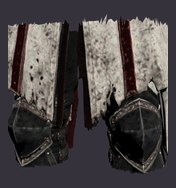
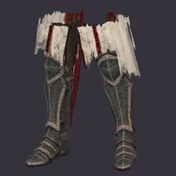
Armour sets as four items each: helm, torso, gloves and legs
The eight meshes each set was cut into are now worn in four groups, so the
rough cuts between meshes that always go together stay hidden: the torso
item puts on the jacket with its shoulders, cloak and belt, and the legs
item the pants with their boots. Torso and legs keep the jacket and pants
ids and take the stats of the pieces they absorb; the four retired pieces
are dropped from inventories and equipment on load. New icons are
rendered from each item's meshes.

Claude-Session: https://claude.ai/code/session_01PFEyGx6zJQyBTvDqTdZK58

diff --git a/app/src/data/armourSets.ts b/app/src/data/armourSets.ts
@@ -1,103 +1,99 @@
 import { GearKind, GearOption } from './types';
 import { ItemIconId } from './itemIcons';
 
-// The owner's four Meshy outfits, cut into eight wearable pieces each. Every
-// piece is its own item for its slot; on a hero it is drawn as a skinned mesh
-// fitted to their race body (see battle3d/Wardrobe). The guild starts with one
-// of each.
+// The owner's four Meshy outfits. Each was cut offline into eight meshes
+// (hood, shoulders, cloak, jacket, belt, gloves, pants, boots); they are worn
+// as four items, so the rough cuts between meshes that always go together stay
+// hidden: the helm or hood, the torso (jacket with shoulders, cloak and belt),
+// the gloves, and the legs (pants with boots). The torso and legs items keep
+// the jacket and pants ids so saves still find them. On a hero an item's meshes
+// are drawn skinned to their race body (see battle3d/Wardrobe). The guild starts
+// with one of each.
 
 export type ArmourSetId = 'leather' | 'knight' | 'arcane' | 'templar';
+/** One of the eight meshes a set was cut into. */
 export type ArmourPiece = 'hood' | 'shoulders' | 'cloak' | 'jacket' | 'belt' | 'gloves' | 'pants' | 'boots';
+/** A wearable item of a set: the helm, torso, gloves or legs. */
+export type ArmourItem = 'hood' | 'jacket' | 'gloves' | 'pants';
 
-export const ARMOUR_PIECES: ArmourPiece[] = ['hood', 'shoulders', 'cloak', 'jacket', 'belt', 'gloves', 'pants', 'boots'];
+export const ARMOUR_ITEMS: ArmourItem[] = ['hood', 'jacket', 'gloves', 'pants'];
 
-/** The slot kind each piece goes in. */
-export const PIECE_KIND: Record<ArmourPiece, GearKind> = {
-  hood: 'helm', shoulders: 'shoulders', cloak: 'cloak', jacket: 'chest', belt: 'belt', gloves: 'gloves', pants: 'pants', boots: 'boots',
+/** The meshes each item puts on. */
+export const ITEM_PIECES: Record<ArmourItem, ArmourPiece[]> = {
+  hood: ['hood'], jacket: ['jacket', 'shoulders', 'cloak', 'belt'], gloves: ['gloves'], pants: ['pants', 'boots'],
 };
+
+/** The slot kind each item goes in. */
+export const ITEM_KIND: Record<ArmourItem, GearKind> = { hood: 'helm', jacket: 'chest', gloves: 'gloves', pants: 'pants' };
 
 type PieceStats = Pick<GearOption, 'mult' | 'hpMult' | 'wardMult' | 'cdMult'>;
 interface ArmourSetDef {
   id: ArmourSetId;
   /** A closed helm hides the whole head; a hood leaves the face showing. */
   closedHelm: boolean;
-  names: Record<ArmourPiece, string>;
-  /** What the set is good at, spread over its pieces. */
-  stats: Record<ArmourPiece, PieceStats>;
+  names: Record<ArmourItem, string>;
+  /** What the set is good at, spread over its items. */
+  stats: Record<ArmourItem, PieceStats>;
 }
 
 const hp = (h: number): PieceStats => ({ hpMult: h });
 export const ARMOUR_SETS: ArmourSetDef[] = [
   {
     id: 'leather', closedHelm: false,
-    names: { hood: 'Кожаный капюшон', shoulders: 'Кожаные наплечники', cloak: 'Рваный плащ следопыта', jacket: 'Кожаная куртка', belt: 'Кожаный пояс', gloves: 'Кожаные перчатки', pants: 'Кожаные штаны', boots: 'Кожаные сапоги' },
+    names: { hood: 'Кожаный капюшон', jacket: 'Кожаная куртка с плащом', gloves: 'Кожаные перчатки', pants: 'Кожаные штаны и сапоги' },
     // Light and quick: damage and a shorter cooldown.
-    stats: { hood: { mult: 1.03 }, shoulders: { mult: 1.02 }, cloak: { cdMult: 0.96 }, jacket: { mult: 1.04, hpMult: 1.03 }, belt: { mult: 1.02 }, gloves: { mult: 1.04 }, pants: { mult: 1.02 }, boots: { cdMult: 0.97 } },
+    stats: { hood: { mult: 1.03 }, jacket: { mult: 1.08, hpMult: 1.03, cdMult: 0.96 }, gloves: { mult: 1.04 }, pants: { mult: 1.02, cdMult: 0.97 } },
   },
   {
     id: 'knight', closedHelm: true,
-    names: { hood: 'Рыцарский шлем', shoulders: 'Рыцарские наплечники', cloak: 'Рыцарский плащ', jacket: 'Рыцарская кираса', belt: 'Рыцарский пояс', gloves: 'Рыцарские латные перчатки', pants: 'Рыцарские поножи', boots: 'Рыцарские сабатоны' },
+    names: { hood: 'Рыцарский шлем', jacket: 'Рыцарские латы', gloves: 'Рыцарские латные перчатки', pants: 'Рыцарские поножи и сабатоны' },
     // Heavy plate: health and less damage taken.
-    stats: { hood: hp(1.05), shoulders: hp(1.04), cloak: { wardMult: 0.98 }, jacket: { hpMult: 1.08, wardMult: 0.97 }, belt: hp(1.02), gloves: hp(1.03), pants: hp(1.05), boots: { hpMult: 1.03, wardMult: 0.99 } },
+    stats: { hood: hp(1.05), jacket: { hpMult: 1.15, wardMult: 0.95 }, gloves: hp(1.03), pants: { hpMult: 1.08, wardMult: 0.99 } },
   },
   {
     id: 'arcane', closedHelm: false,
-    names: { hood: 'Капюшон чародея', shoulders: 'Наплечники чародея', cloak: 'Плащ чародея', jacket: 'Одеяние чародея', belt: 'Кушак чародея', gloves: 'Перчатки чародея', pants: 'Штаны чародея', boots: 'Сапоги чародея' },
+    names: { hood: 'Капюшон чародея', jacket: 'Одеяние чародея', gloves: 'Перчатки чародея', pants: 'Штаны и сапоги чародея' },
     // For casters: power and cooldowns.
-    stats: { hood: { mult: 1.03, cdMult: 0.98 }, shoulders: { mult: 1.02 }, cloak: { cdMult: 0.95 }, jacket: { mult: 1.05 }, belt: { cdMult: 0.98 }, gloves: { mult: 1.03 }, pants: { hpMult: 1.03 }, boots: { cdMult: 0.98 } },
+    stats: { hood: { mult: 1.03, cdMult: 0.98 }, jacket: { mult: 1.07, cdMult: 0.93 }, gloves: { mult: 1.03 }, pants: { hpMult: 1.03, cdMult: 0.98 } },
   },
   {
     id: 'templar', closedHelm: true,
-    names: { hood: 'Шлем тамплиера', shoulders: 'Наплечники тамплиера', cloak: 'Плащ тамплиера', jacket: 'Сюрко тамплиера', belt: 'Пояс тамплиера', gloves: 'Латные перчатки тамплиера', pants: 'Поножи тамплиера', boots: 'Сабатоны тамплиера' },
+    names: { hood: 'Шлем тамплиера', jacket: 'Доспех тамплиера', gloves: 'Латные перчатки тамплиера', pants: 'Поножи и сабатоны тамплиера' },
     // Holy warrior: some of both.
-    stats: { hood: { hpMult: 1.04, mult: 1.01 }, shoulders: hp(1.03), cloak: { wardMult: 0.98, mult: 1.01 }, jacket: { hpMult: 1.06, mult: 1.03 }, belt: hp(1.02), gloves: { mult: 1.03 }, pants: hp(1.04), boots: hp(1.03) },
+    stats: { hood: { hpMult: 1.04, mult: 1.01 }, jacket: { hpMult: 1.11, mult: 1.04, wardMult: 0.98 }, gloves: { mult: 1.03 }, pants: hp(1.07) },
   },
 ];
 
-export const armourId = (set: ArmourSetId, piece: ArmourPiece) => `set-${set}-${piece}`;
-/** The set and piece behind an item id, or null for any other item. */
-export function armourOf(gearId: string | undefined): { set: ArmourSetDef; piece: ArmourPiece } | null {
+export const armourId = (set: ArmourSetId, item: ArmourItem) => `set-${set}-${item}`;
+/** The set and item behind an item id, or null for any other item (including the four retired pieces). */
+export function armourOf(gearId: string | undefined): { set: ArmourSetDef; item: ArmourItem } | null {
   const m = /^set-([a-z]+)-([a-z]+)$/.exec(gearId ?? '');
   const set = m && ARMOUR_SETS.find((s) => s.id === m[1]);
-  return set && (ARMOUR_PIECES as string[]).includes(m![2]) ? { set, piece: m![2] as ArmourPiece } : null;
+  return set && (ARMOUR_ITEMS as string[]).includes(m![2]) ? { set, item: m![2] as ArmourItem } : null;
 }
+/** Ids of the pieces that were items of their own before the sets were regrouped. */
+export const RETIRED_ARMOUR_IDS: string[] = ARMOUR_SETS.flatMap((s) => ['shoulders', 'cloak', 'belt', 'boots'].map((p) => `set-${s.id}-${p}`));
 
-// Icons rendered from the pieces themselves.
-export type ArmourIconId = `a-${ArmourSetId}-${ArmourPiece}`;
+// Icons rendered from each item's meshes.
+export type ArmourIconId = `a-${ArmourSetId}-${ArmourItem}`;
 export type GearIconId = ItemIconId | ArmourIconId;
 export const ARMOUR_ICONS: Record<ArmourIconId, any> = {
   'a-leather-hood': require('../../assets/items/armour/a-leather-hood.jpg'),
-  'a-leather-shoulders': require('../../assets/items/armour/a-leather-shoulders.jpg'),
-  'a-leather-cloak': require('../../assets/items/armour/a-leather-cloak.jpg'),
   'a-leather-jacket': require('../../assets/items/armour/a-leather-jacket.jpg'),
-  'a-leather-belt': require('../../assets/items/armour/a-leather-belt.jpg'),
   'a-leather-gloves': require('../../assets/items/armour/a-leather-gloves.jpg'),
   'a-leather-pants': require('../../assets/items/armour/a-leather-pants.jpg'),
-  'a-leather-boots': require('../../assets/items/armour/a-leather-boots.jpg'),
   'a-knight-hood': require('../../assets/items/armour/a-knight-hood.jpg'),
-  'a-knight-shoulders': require('../../assets/items/armour/a-knight-shoulders.jpg'),
-  'a-knight-cloak': require('../../assets/items/armour/a-knight-cloak.jpg'),
   'a-knight-jacket': require('../../assets/items/armour/a-knight-jacket.jpg'),
-  'a-knight-belt': require('../../assets/items/armour/a-knight-belt.jpg'),
   'a-knight-gloves': require('../../assets/items/armour/a-knight-gloves.jpg'),
   'a-knight-pants': require('../../assets/items/armour/a-knight-pants.jpg'),
-  'a-knight-boots': require('../../assets/items/armour/a-knight-boots.jpg'),
   'a-arcane-hood': require('../../assets/items/armour/a-arcane-hood.jpg'),
-  'a-arcane-shoulders': require('../../assets/items/armour/a-arcane-shoulders.jpg'),
-  'a-arcane-cloak': require('../../assets/items/armour/a-arcane-cloak.jpg'),
   'a-arcane-jacket': require('../../assets/items/armour/a-arcane-jacket.jpg'),
-  'a-arcane-belt': require('../../assets/items/armour/a-arcane-belt.jpg'),
   'a-arcane-gloves': require('../../assets/items/armour/a-arcane-gloves.jpg'),
   'a-arcane-pants': require('../../assets/items/armour/a-arcane-pants.jpg'),
-  'a-arcane-boots': require('../../assets/items/armour/a-arcane-boots.jpg'),
   'a-templar-hood': require('../../assets/items/armour/a-templar-hood.jpg'),
-  'a-templar-shoulders': require('../../assets/items/armour/a-templar-shoulders.jpg'),
-  'a-templar-cloak': require('../../assets/items/armour/a-templar-cloak.jpg'),
   'a-templar-jacket': require('../../assets/items/armour/a-templar-jacket.jpg'),
-  'a-templar-belt': require('../../assets/items/armour/a-templar-belt.jpg'),
   'a-templar-gloves': require('../../assets/items/armour/a-templar-gloves.jpg'),
   'a-templar-pants': require('../../assets/items/armour/a-templar-pants.jpg'),
-  'a-templar-boots': require('../../assets/items/armour/a-templar-boots.jpg'),
 };
 
 const pct = (m: number) => `${m > 1 ? '+' : '−'}${Math.round(Math.abs(m - 1) * 100)}%`;
@@ -110,13 +106,12 @@ function describe(s: PieceStats): string {
   return parts.join(', ') + '.';
 }
 
-/** Every set piece as an item, grouped by the slot kind it goes in. */
+/** Every set item, grouped by the slot kind it goes in. */
 export const ARMOUR_GEAR: Partial<Record<GearKind, GearOption[]>> = {};
-for (const set of ARMOUR_SETS) for (const piece of ARMOUR_PIECES) {
-  const kind = PIECE_KIND[piece];
-  (ARMOUR_GEAR[kind] ??= []).push({
-    id: armourId(set.id, piece), name: set.names[piece], ...set.stats[piece],
-    desc: describe(set.stats[piece]), icon: `a-${set.id}-${piece}` as ArmourIconId,
+for (const set of ARMOUR_SETS) for (const item of ARMOUR_ITEMS) {
+  (ARMOUR_GEAR[ITEM_KIND[item]] ??= []).push({
+    id: armourId(set.id, item), name: set.names[item], ...set.stats[item],
+    desc: describe(set.stats[item]), icon: `a-${set.id}-${item}` as ArmourIconId,
   });
 }
-export const ARMOUR_IDS: string[] = ARMOUR_SETS.flatMap((s) => ARMOUR_PIECES.map((p) => armourId(s.id, p)));
+export const ARMOUR_IDS: string[] = ARMOUR_SETS.flatMap((s) => ARMOUR_ITEMS.map((i) => armourId(s.id, i)));

diff --git a/app/src/data/gear.ts b/app/src/data/gear.ts
@@ -1,5 +1,5 @@
 import { GearKind, GearOption, GearSlotKey } from './types';
-import { ARMOUR_GEAR, ARMOUR_IDS } from './armourSets';
+import { ARMOUR_GEAR, ARMOUR_IDS, RETIRED_ARMOUR_IDS } from './armourSets';
 
 export interface LootDrop {
   /** The kind of item (not the slot it goes in). */
@@ -192,11 +192,11 @@ export const slotGear = (slot: GearSlotKey): GearOption[] => GEAR[SLOT_KIND[slot
 /** Slots an item of this kind can go in. */
 export const slotsForKind = (kind: GearKind): GearSlotKey[] => SLOT_ORDER.filter((s) => SLOT_KIND[s] === kind);
 
-/** Old saves had armor / trinket / ring slots. */
+/** Old saves had armor / trinket / ring slots, and armour-set pieces that are now part of a bigger item. */
 export function migrateEquipment(saved: Record<string, string> | undefined): Record<GearSlotKey, string> {
   const e = { ...emptyEquipment() } as Record<string, string>;
   const rename: Record<string, string> = { armor: 'chest', trinket: 'necklace', ring: 'ring1' };
-  for (const [k, v] of Object.entries(saved ?? {})) { const key = rename[k] ?? k; if (key in e) e[key] = v; }
+  for (const [k, v] of Object.entries(saved ?? {})) { const key = rename[k] ?? k; if (key in e && !RETIRED_ARMOUR_IDS.includes(v)) e[key] = v; }
   return e as Record<GearSlotKey, string>;
 }
 

diff --git a/app/src/engine/GameEngine.ts b/app/src/engine/GameEngine.ts
@@ -22,7 +22,7 @@ import { CURIOS } from '../data/curios';
 import { EventOption, OFFICE_EVENTS, STAFF_EVENTS } from '../data/events';
 import { BARKS, barkMoment } from '../data/barks';
 import { GearIconId as ItemIconId } from '../data/armourSets';
-import { ARMOUR_IDS } from '../data/armourSets';
+import { ARMOUR_IDS, RETIRED_ARMOUR_IDS } from '../data/armourSets';
 import { FEATURES, FEATURE_ORDER, Feature, Tip } from '../data/features';
 import { IconName } from '../components/Icon';
 import type { Quality } from '../battle3d/quality';
@@ -504,6 +504,8 @@ export class GameEngine {
     if (data.inventoryCounts) this.inventoryCounts = data.inventoryCounts;
     // Saves from before the armour sets get one of each piece.
     for (const id of ARMOUR_IDS) if (this.inventoryCounts[id] === undefined) this.inventoryCounts[id] = 1;
+    // Shoulders, cloaks, belts and boots of the sets are now part of the torso and legs items.
+    for (const id of RETIRED_ARMOUR_IDS) delete this.inventoryCounts[id];
     if (data.reagentCounts) this.reagentCounts = data.reagentCounts;
     if (typeof data.gold === 'number') this.gold = data.gold;
     if (data.dungeonId) this.dungeonId = data.dungeonId;

diff --git a/app/src/battle3d/gearLooks.ts b/app/src/battle3d/gearLooks.ts
@@ -4,7 +4,7 @@ import { RARITY_COLOR, rarityOf } from '../data/gearInfo';
 import { HeroLook, Weapon } from './heroLooks';
 import type { HelmModelName } from './HelmModel';
 import type { WornPiece } from './Wardrobe';
-import { armourOf } from '../data/armourSets';
+import { ITEM_PIECES, armourOf } from '../data/armourSets';
 
 
 // What worn gear looks like on a low-poly hero: each item maps to a piece
@@ -84,7 +84,10 @@ export function gearLookOf(equipment: Partial<Record<GearSlotKey, string>> | und
     if (i > best) { best = i; g.best = RARITY_COLOR[rarityOf(o)]; }
   }
   const pieces: WornPiece[] = [];
-  for (const slot of SLOT_ORDER) { const a = armourOf(equipment[slot]); if (a) pieces.push({ set: a.set.id, piece: a.piece, closedHelm: a.set.closedHelm }); }
+  for (const slot of SLOT_ORDER) {
+    const a = armourOf(equipment[slot]);
+    if (a) for (const piece of ITEM_PIECES[a.item]) pieces.push({ set: a.set.id, piece, closedHelm: a.set.closedHelm });
+  }
   if (pieces.length) g.pieces = pieces;
   return g;
 }
